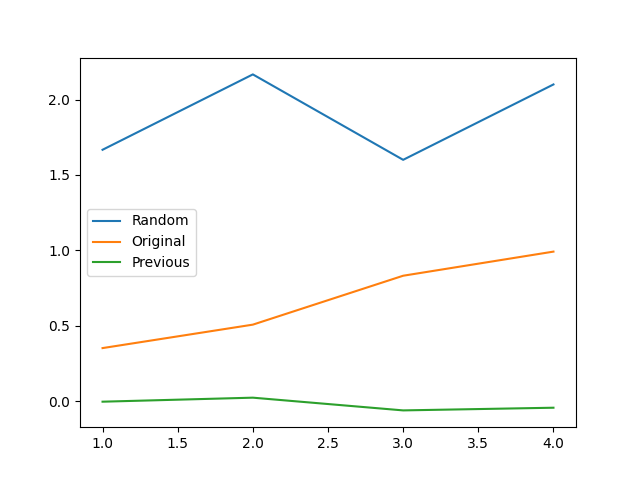
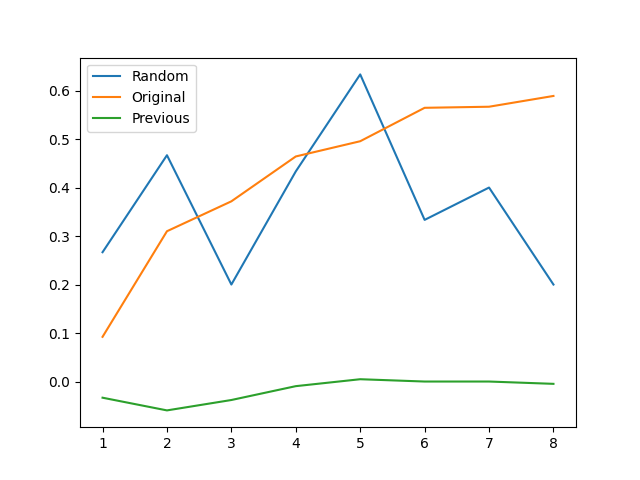
save

diff --git a/metaheuristic_algorithm/metaheuristic_algorithm_nn.py b/metaheuristic_algorithm/metaheuristic_algorithm_nn.py
@@ -77,7 +77,7 @@ class MetaHeuristicAlgorithm:
         offspring = list()
         
         if crossover_type == 'evolutionary': # evolutionary breeding (one parent producing one offspring)
-
+            
             for chromosome in self.fittest_chromosomes:
                 
                 offspring.append(
@@ -110,7 +110,7 @@ class MetaHeuristicAlgorithm:
                     
                     edges = chromosome_one[ 'genes' ].weights.keys()
                     
-                    for edge in edges:
+                    for edge_index, edge in enumerate( edges ):
 
                         gene = [ 
                             chromosome_one[ 'genes' ].weights[ edge ], 
@@ -122,21 +122,28 @@ class MetaHeuristicAlgorithm:
                             check_mutation( gene[1], edge, mutated_genes_indices[1] ) 
                         ]
                         
-                        if edge in crossover_genes_indices:
+                        if edge_index in crossover_genes_indices:
 
                             gene = gene[ : : -1 ]
 
                         baby_chromosome_one[ edge ] = gene[ 0 ]
                         baby_chromosome_two[ edge ] = gene[ 1 ]
 
-                    baby_chromosome_one = {'genes': NeuralNetwork( baby_chromosome_one ), 'score': 0}
-                    baby_chromosome_two = {'genes': NeuralNetwork( baby_chromosome_two ), 'score': 0}
+                    baby_chromosome_one = {
+                        'genes': NeuralNetwork( baby_chromosome_one ), 
+                        'score': 0
+                    }
+                    
+                    baby_chromosome_two = {
+                        'genes': NeuralNetwork( baby_chromosome_two ), 
+                        'score': 0
+                    }
 
                     offspring.append( baby_chromosome_one )
                     offspring.append( baby_chromosome_two )
 
         self.previous_population = copy_population( self.population )
-        self.population = self.fittest_chromosomes + offspring  
+        self.population = copy_population( self.fittest_chromosomes + offspring ) 
 
     def compete( self, chromosome_one, chromosome_two ):
         
@@ -405,6 +412,10 @@ def calculate_mutation():
     return gaussian_random_numbers[0]
 
 def copy_population( population ):
+
+    for chromosome in population:
+        chromosome[ 'score' ] = 0
+    
     return list( population )
     
 def get_mutated_chromosomes( number_of_genes, mutation_rate ):

diff --git a/neural_network/012-3.py b/neural_network/012-3.py
@@ -19,7 +19,7 @@ def calculate_score( fittest_chromosomes, population ):
 
         for chromosome_two in population:
 
-            if chromosome_one is chromosome_two: continue
+            #if chromosome_one is chromosome_two: continue
             
             MHA.compete( chromosome_one, chromosome_two )
             chromosome_two[ 'score' ] = 0
@@ -29,20 +29,23 @@ def calculate_score( fittest_chromosomes, population ):
 
             num_games += 2
 
-    score = list()
+    score = int()
 
     for chromosome in fittest_chromosomes:
-        score.append( chromosome[ 'score' ] / num_games )
+        score += chromosome[ 'score' ] / num_games
         chromosome[ 'score' ] = 0
 
     for chromosome in population:
         chromosome[ 'score' ] = 0
 
-    return sum( score )
+    return score
 
 def calculate_score_random( fittest_chromosomes, random_population ):
 
     num_games = int()
+
+    for chromosome in fittest_chromosomes:
+        chromosome[ 'score' ] = 0
 
     for chromosome_one in fittest_chromosomes:
 
@@ -66,13 +69,13 @@ def calculate_score_random( fittest_chromosomes, random_population ):
 
             num_games += 2
 
-    score = list()
+    score = int()
 
     for chromosome in fittest_chromosomes:
-        score.append( chromosome[ 'score' ] / num_games )
+        score += chromosome[ 'score' ] / num_games
         chromosome[ 'score' ] = 0
 
-    return sum( score )
+    return score
 
 random_average_score = list()
 original_average_score = list()
@@ -109,8 +112,8 @@ for generation in range( num_generations ):
     MHA.breed( mutation_rate = 0.01, crossover_type = 'evolutionary' )
 
     random_average_score.append( calculate_score_random( MHA.fittest_chromosomes, random_population ) )
-    original_average_score.append( calculate_score( MHA.fittest_chromosomes, MHA.original_population[ : MHA.breedable_population_size] ) )
-    previous_average_score.append( calculate_score( MHA.fittest_chromosomes, MHA.previous_population[ : MHA.breedable_population_size ] ) )
+    original_average_score.append( calculate_score( MHA.fittest_chromosomes, MHA.original_population ) )
+    previous_average_score.append( calculate_score( MHA.fittest_chromosomes, MHA.previous_population ) )
 
     plt.plot( list( range( 1, generation + 2 ) ), random_average_score )
     plt.plot( list( range( 1, generation + 2 ) ), original_average_score )
